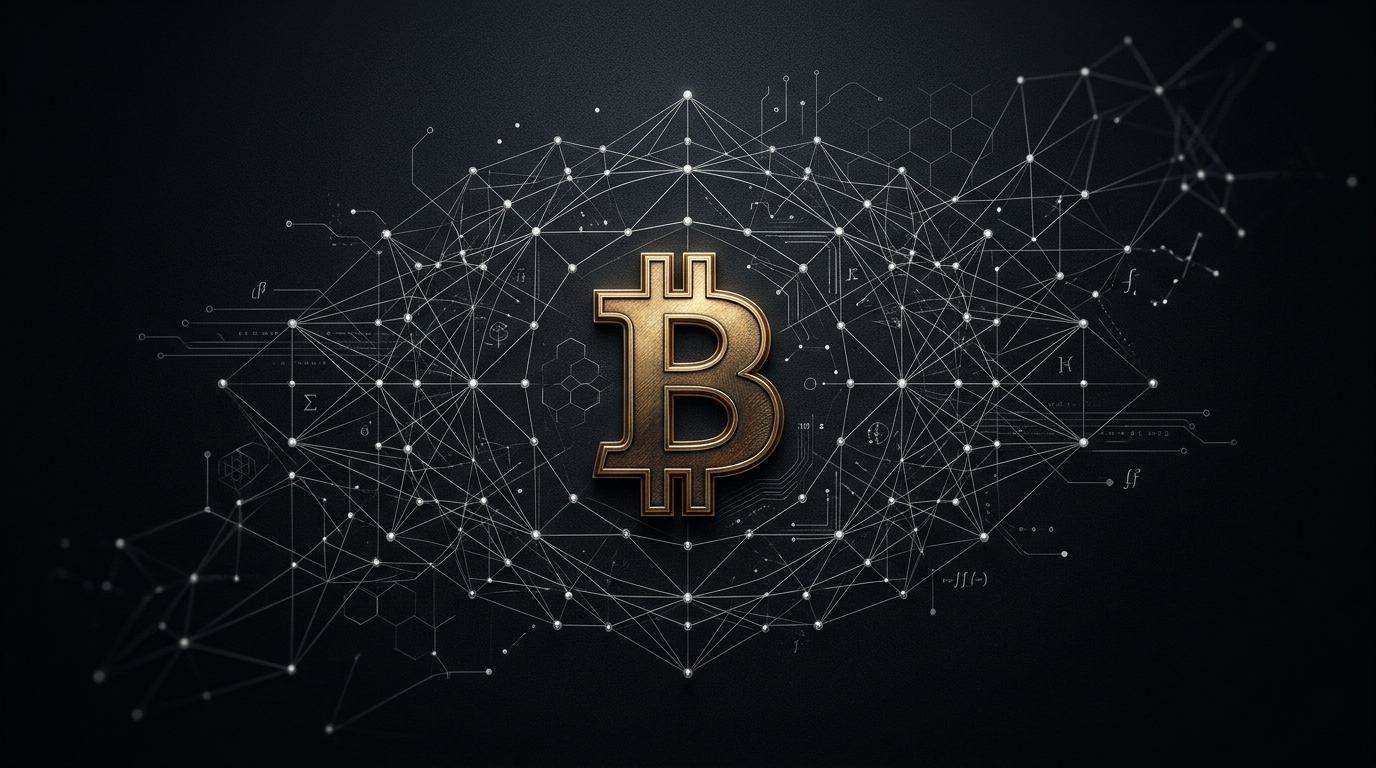
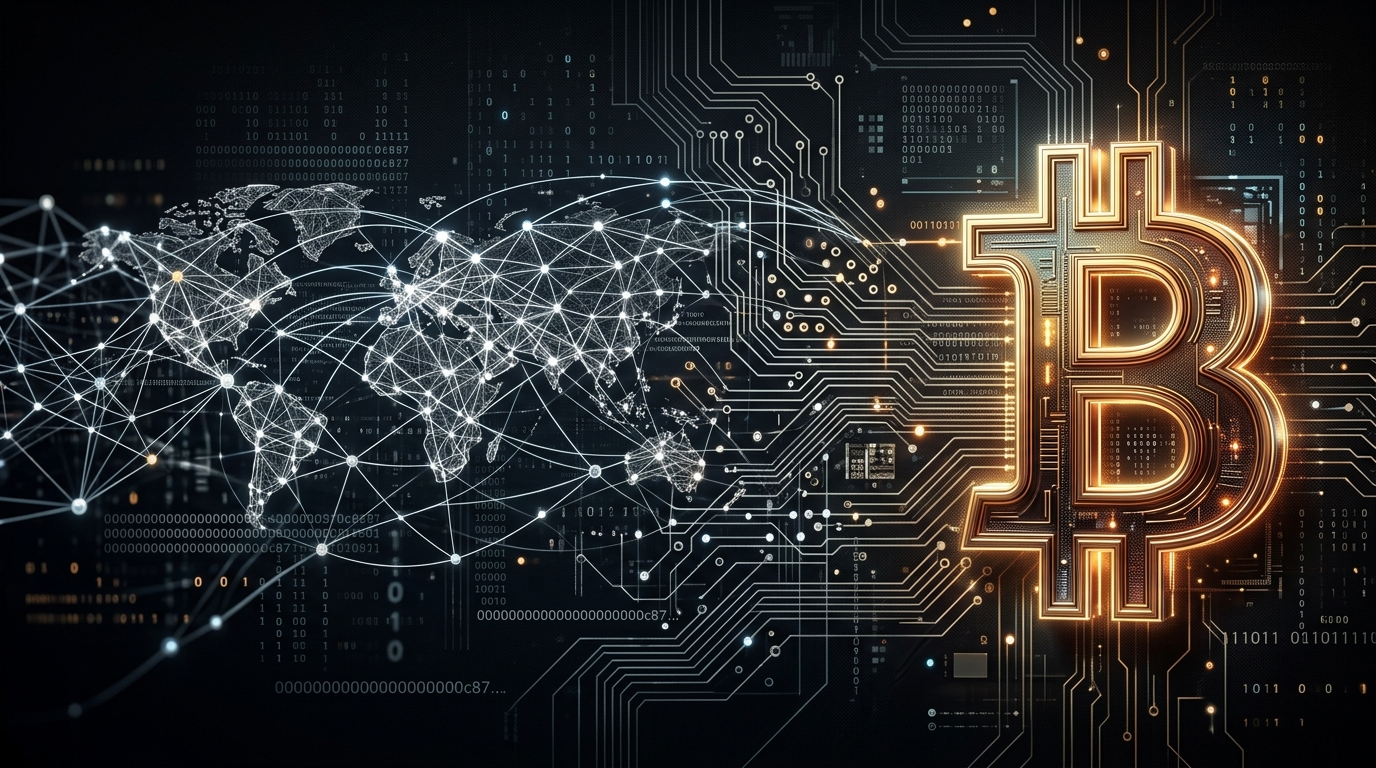
style(home): posicionar simbolo do bitcoin a direita, aumentar luminosidade das imagens de fundo

diff --git a/src/components/home/BitcoinSection.tsx b/src/components/home/BitcoinSection.tsx
@@ -40,23 +40,23 @@ export default function BitcoinSection() {
 
   return (
     <section id="bitcoin-section" className="relative isolate overflow-hidden py-20 md:py-24 border-b border-white/[0.08] bg-[#050607]">
-      {/* Background Image Layer occupying 100% of section */}
+      {/* Background Image Layer with Right-Aligned Bitcoin Symbol & Increased Luminosity */}
       <div className="absolute inset-0 z-0 overflow-hidden pointer-events-none select-none">
         <Image
           src="/backgrounds/bitcoin-bg.jpg"
           alt=""
           fill
           sizes="100vw"
-          className="object-cover object-center opacity-30"
+          className="object-cover object-right opacity-65 brightness-110 saturate-[1.1]"
           priority
         />
-        {/* Dark Vignette Overlay for smooth top/bottom edge transition */}
-        <div className="absolute inset-0 bg-gradient-to-b from-[#050607]/80 via-transparent to-[#050607]/85" />
+        {/* Soft Vignette Overlay for smooth top/bottom edge transition */}
+        <div className="absolute inset-0 bg-gradient-to-b from-[#050607]/50 via-transparent to-[#050607]/65" />
       </div>
 
       <div className="relative z-10 max-w-[1360px] mx-auto px-5 md:px-8 space-y-10 md:space-y-12">
         {/* Header Block with Localized Backdrop Blur */}
-        <div className="max-w-[860px] space-y-3.5 p-6 md:p-8 rounded-2xl bg-[#050607]/75 backdrop-blur-md border border-white/[0.06] shadow-xl">
+        <div className="max-w-[860px] space-y-3.5 p-6 md:p-8 rounded-2xl bg-[#050607]/75 backdrop-blur-md border border-white/10 shadow-2xl">
           <span className="text-[11px] md:text-[12px] font-extrabold uppercase tracking-[0.15em] text-[#F59A18] block">
             DESCENTRALIZAÇÃO NA PRÁTICA
           </span>
@@ -75,12 +75,12 @@ export default function BitcoinSection() {
           </div>
         </div>
 
-        {/* 4 Refined Fundamentals Cards Grid with Glassmorphic Card Backgrounds */}
+        {/* 4 Refined Fundamentals Cards Grid */}
         <div className="cards-grid grid grid-cols-1 sm:grid-cols-2 lg:grid-cols-4 gap-5 lg:gap-6 items-stretch">
           {fundamentals.map((item, idx) => (
             <div
               key={idx}
-              className={`p-6 md:p-7 flex flex-col justify-between space-y-4 bg-[#0A0C0F]/90 backdrop-blur-md rounded-xl border ${item.borderColor} transition-all duration-200 cursor-default group shadow-lg`}
+              className={`p-6 md:p-7 flex flex-col justify-between space-y-4 bg-[#0A0C0F]/85 backdrop-blur-md rounded-xl border ${item.borderColor} transition-all duration-200 cursor-default group shadow-xl`}
             >
               <div className="space-y-4">
                 <div className="flex items-center justify-between">
@@ -103,7 +103,7 @@ export default function BitcoinSection() {
         </div>
 
         {/* Featured Callout with Glassmorphism */}
-        <div className="p-6 md:p-8 rounded-2xl bg-[#0A0C0F]/90 backdrop-blur-md border border-[#F59A18]/40 text-center max-w-[860px] mx-auto shadow-xl">
+        <div className="p-6 md:p-8 rounded-2xl bg-[#0A0C0F]/85 backdrop-blur-md border border-[#F59A18]/40 text-center max-w-[860px] mx-auto shadow-2xl">
           <p className="font-outfit font-bold text-[18px] md:text-[21px] text-[#EEF4FA] tracking-tight">
             “Antes de comparar preços, compare as regras.”
           </p>

diff --git a/src/components/home/ForcesSection.tsx b/src/components/home/ForcesSection.tsx
@@ -57,23 +57,23 @@ export default function ForcesSection() {
 
   return (
     <section className="relative isolate overflow-hidden py-20 md:py-24 border-b border-white/[0.08] bg-[#050607]">
-      {/* Background Image Layer occupying 100% of section */}
+      {/* Background Image Layer with Increased Luminosity & Clarity */}
       <div className="absolute inset-0 z-0 overflow-hidden pointer-events-none select-none">
         <Image
           src="/backgrounds/forces-bg.jpg"
           alt=""
           fill
           sizes="100vw"
-          className="object-cover object-center opacity-25"
+          className="object-cover object-center opacity-60 brightness-110 saturate-[1.1]"
           priority
         />
-        {/* Subtle Dark Vignette & Edge Blending */}
-        <div className="absolute inset-0 bg-gradient-to-b from-[#050607]/80 via-transparent to-[#050607]/85" />
+        {/* Soft Vignette Gradient */}
+        <div className="absolute inset-0 bg-gradient-to-b from-[#050607]/50 via-transparent to-[#050607]/65" />
       </div>
 
       <div className="relative z-10 max-w-[1360px] mx-auto px-5 md:px-8 space-y-10 md:space-y-12">
         {/* Header Block with Localized Backdrop Blur */}
-        <div className="max-w-[860px] space-y-3.5 p-6 md:p-8 rounded-2xl bg-[#050607]/75 backdrop-blur-md border border-white/[0.06] shadow-xl">
+        <div className="max-w-[860px] space-y-3.5 p-6 md:p-8 rounded-2xl bg-[#050607]/75 backdrop-blur-md border border-white/10 shadow-2xl">
           <span className="text-[11px] md:text-[12px] font-extrabold uppercase tracking-[0.15em] text-[#F59A18] block">
             ALÉM DAS MANCHETES
           </span>
@@ -92,12 +92,12 @@ export default function ForcesSection() {
           </div>
         </div>
 
-        {/* 4 Refined Cards Grid with Glassmorphic Card Backgrounds */}
+        {/* 4 Refined Cards Grid */}
         <div className="cards-grid grid grid-cols-1 sm:grid-cols-2 lg:grid-cols-4 gap-5 lg:gap-6 items-stretch">
           {cards.map((card, idx) => (
             <div
               key={idx}
-              className={`p-6 md:p-7 flex flex-col justify-between space-y-5 bg-[#0A0C0F]/90 backdrop-blur-md rounded-xl border ${card.borderColor} transition-all duration-200 cursor-default group shadow-lg`}
+              className={`p-6 md:p-7 flex flex-col justify-between space-y-5 bg-[#0A0C0F]/85 backdrop-blur-md rounded-xl border ${card.borderColor} transition-all duration-200 cursor-default group shadow-xl`}
             >
               <div className="space-y-4">
                 <div className="flex items-center justify-between">

diff --git a/src/components/home/FinalCtaSection.tsx b/src/components/home/FinalCtaSection.tsx
@@ -9,22 +9,22 @@ export default function FinalCtaSection() {
       aria-label="Conclusão HDZ Finance"
       className="relative isolate overflow-hidden py-20 md:py-24 border-b border-white/[0.08] bg-[#050607]"
     >
-      {/* Background Image Layer occupying 100% of section */}
+      {/* Background Image Layer with Increased Luminosity & Clarity */}
       <div className="absolute inset-0 z-0 overflow-hidden pointer-events-none select-none">
         <Image
           src="/backgrounds/final-cta-bg.jpg"
           alt=""
           fill
           sizes="100vw"
-          className="object-cover object-center opacity-30"
+          className="object-cover object-center opacity-60 brightness-110 saturate-[1.1]"
           priority
         />
-        {/* Dark Vignette Overlay for smooth edge blending */}
-        <div className="absolute inset-0 bg-gradient-to-b from-[#050607]/80 via-transparent to-[#050607]/85" />
+        {/* Soft Vignette Gradient Overlay */}
+        <div className="absolute inset-0 bg-gradient-to-b from-[#050607]/50 via-transparent to-[#050607]/65" />
       </div>
 
       <div className="relative z-10 max-w-[1360px] mx-auto px-5 md:px-8">
-        <div className="max-w-[900px] space-y-6 text-left p-6 sm:p-8 md:p-10 rounded-2xl bg-[#050607]/80 backdrop-blur-md border border-white/[0.08] shadow-2xl">
+        <div className="max-w-[900px] space-y-6 text-left p-6 sm:p-8 md:p-10 rounded-2xl bg-[#050607]/75 backdrop-blur-md border border-white/10 shadow-2xl">
           <span className="text-[12px] md:text-[13px] font-extrabold uppercase tracking-[0.15em] text-[#F59A18] block">
             VÁ ALÉM DA MANCHETE
           </span>
